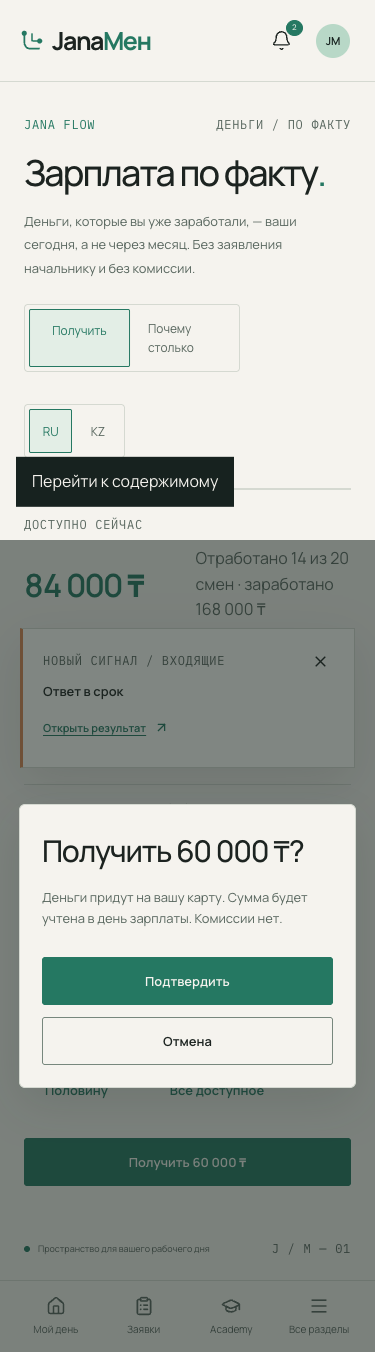
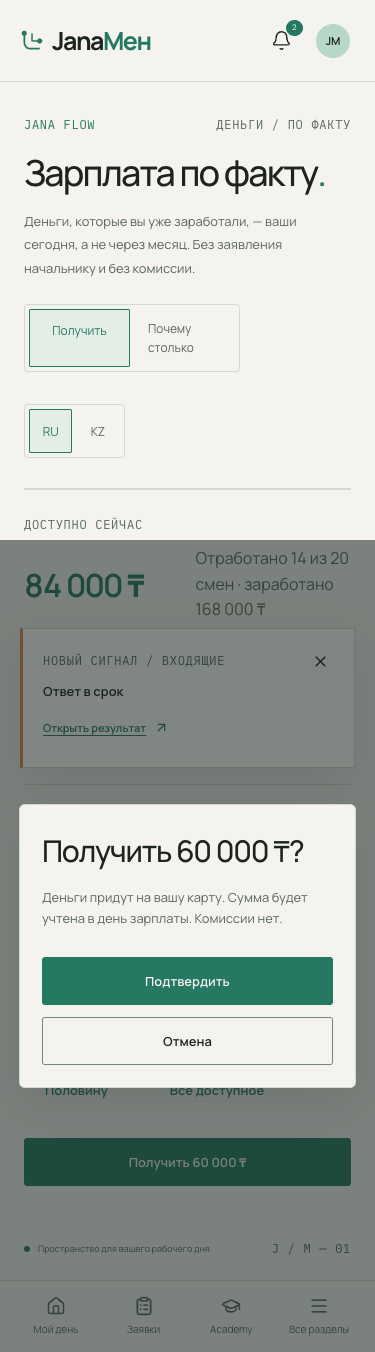
test(front): e2e бейджей гарантий и причины отказа, скриншоты

Changed region(s): [[0.0293, 0.3107, 0.6453, 0.3728]]

diff --git a/e2e-ext/03-guarantee-badges.spec.ts b/e2e-ext/03-guarantee-badges.spec.ts
@@ -1,0 +1,54 @@
+import { expect, test } from '@playwright/test'
+import { API, loginAs, noOverflow, resetDemo, shot } from './helpers'
+
+test.beforeEach(async ({ page }) => { await resetDemo(page) })
+
+test('бейдж «Ответ до …» в списке и карточке; после «+2 дня» — «Одобрено по сроку»', async ({ page }) => {
+  await loginAs(page, 'aigerim', '/requests')
+  const row = page.locator('.request-table tbody tr', { has: page.locator('.request-status', { hasText: 'На согласовании' }) })
+  await expect(row.getByTestId('guarantee-badge')).toContainText('Ответ до')
+  await shot(page, 'requests-badge-1440')
+  await row.locator('.request-number').click()
+  await expect(page.locator('.request-status-line').getByTestId('guarantee-badge')).toContainText('Ответ до')
+  await page.request.post(`${API}/api/demo/advance-time`, { data: { hours: 48 } })
+  await page.reload()
+  await expect(page.locator('.request-status-line').getByTestId('guarantee-badge')).toContainText('Одобрено по сроку')
+  await expect(page.locator('.request-status').first()).toContainText('Согласовано')
+})
+
+test('отказ: без причины кнопка неактивна, с причиной — сохраняется', async ({ page }) => {
+  await loginAs(page, 'erlan', '/manager/approvals')
+  await page.locator('.request-number').first().click()
+  await page.getByRole('radio', { name: 'Отклонить' }).check({ force: true })
+  const submit = page.getByRole('button', { name: 'Подтвердить отклонение' })
+  await expect(submit).toBeDisabled()
+  await page.locator('.decision-panel textarea').fill('В эти даты в смене никого не остаётся')
+  await expect(submit).toBeDisabled()
+  await page.locator('.ext-reason select').selectOption('STAFFING')
+  await expect(submit).toBeEnabled()
+  await shot(page, 'decision-reason-1440')
+  await submit.click()
+  await expect(page.locator('.decision-complete')).toBeVisible()
+  await expect(page.locator('.request-status').first()).toContainText('Отклонено')
+})
+
+test('передано HR по сроку — статус и бейдж', async ({ page }) => {
+  const hr = await (await page.request.post(`${API}/api/demo/login-as`, { data: { login: 'daniyar' } })).json()
+  const auth = { Authorization: `Bearer ${hr.accessToken}` }
+  const policies = await (await page.request.get(`${API}/api/ext/policies`, { headers: auth })).json()
+  const vac = policies.find((p: { requestType: string }) => p.requestType === 'vacation')
+  await page.request.put(`${API}/api/ext/policies/${vac.id}`, { headers: auth, data: { onTimeout: 'escalate_hr' } })
+  await page.request.post(`${API}/api/demo/advance-time`, { data: { hours: 48 } })
+  await loginAs(page, 'aigerim', '/requests')
+  const row = page.locator('.request-table tbody tr', { has: page.locator('.request-status', { hasText: 'Передано HR' }) })
+  await expect(row).toHaveCount(1)
+  await expect(row.getByTestId('guarantee-badge')).toContainText('Передано HR')
+})
+
+test('375 px: карточка с бейджем без переполнения', async ({ page }) => {
+  await page.setViewportSize({ width: 375, height: 812 })
+  await loginAs(page, 'aigerim', '/requests')
+  await expect(page.getByTestId('guarantee-badge').first()).toBeVisible()
+  await noOverflow(page)
+  await shot(page, 'requests-badge-375')
+})

diff --git a/e2e-ext/helpers.ts b/e2e-ext/helpers.ts
@@ -18,6 +18,7 @@ export async function loginAs(page: Page, login: string, path = '/dashboard') {
 }
 
 export async function shot(page: Page, name: string) {
+  await page.addStyleTag({ content: '.skip-link{display:none!important}' })
   await page.evaluate(() => { (document.activeElement as HTMLElement | null)?.blur(); return document.fonts.ready })
   await page.waitForTimeout(400)
   await page.screenshot({ path: `${SHOTS}/${name}.png`, fullPage: true })
